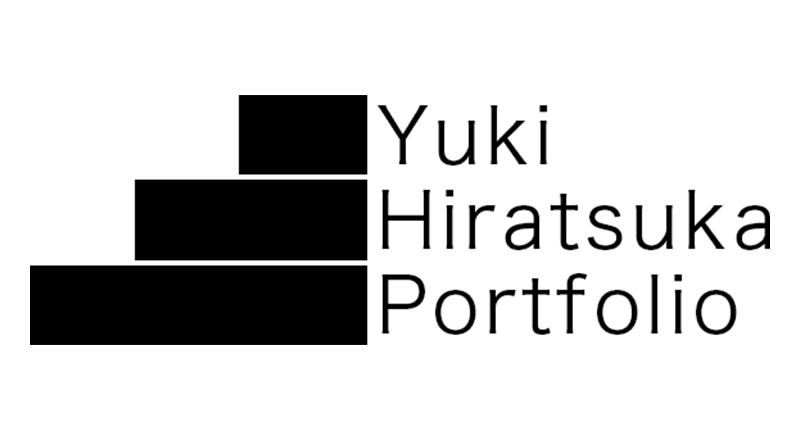
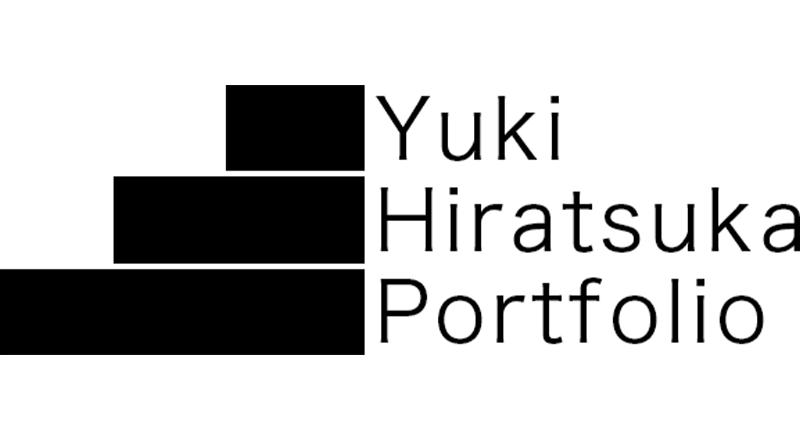
no message

Changed region(s): [[0.0, 0.1773, 1.0, 0.8273]]

diff --git a/index.html b/index.html
@@ -254,7 +254,7 @@
                 </dl>
               </div>
             </div>
-            <div class="visual-box"><img src="images/logo.png" alt="ポートフォリオサイトのロゴ"></div>
+            <div class="visual-box"><img src="images/portfolio2.png" alt="ポートフォリオサイトのロゴ"></div>
           </section>
 
           <div class="side-details">
